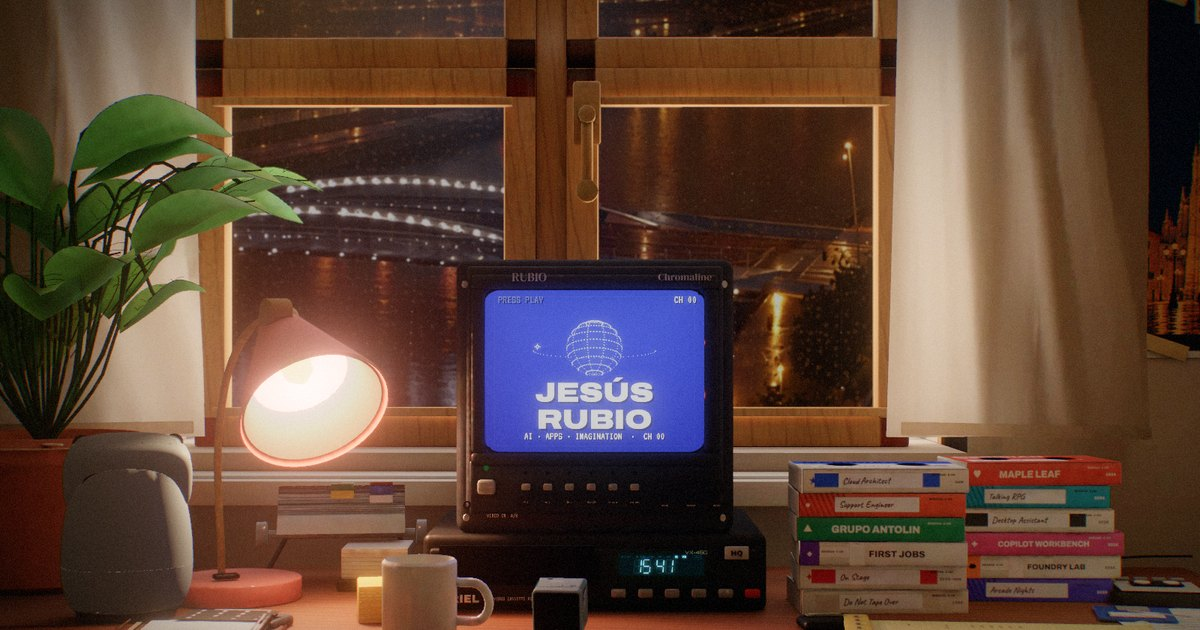
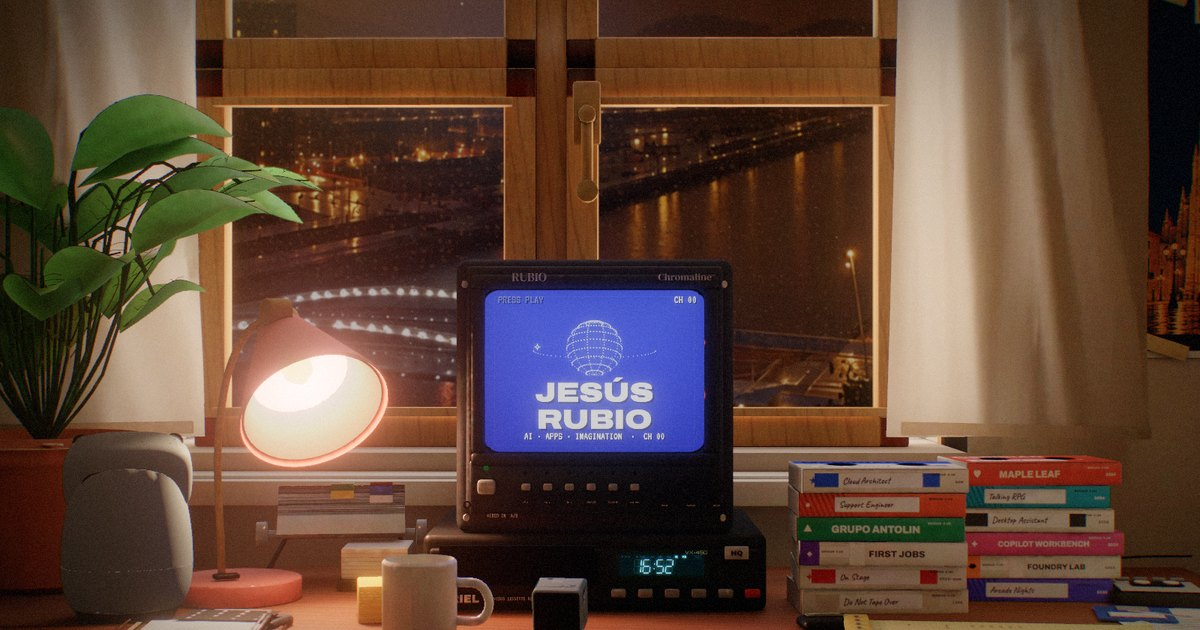
Room: window view shifted, not tilted

diff --git a/room/js/scene/window.js b/room/js/scene/window.js
@@ -35,6 +35,7 @@ uniform vec2 uAzRange;
 uniform vec2 uElRange;
 uniform vec2 uPanoOffset;
 uniform vec2 uViewRotate;
+uniform float uViewShift;
 uniform vec4 uCarPaths[4];
 uniform float uCarSpeeds[4];
 uniform int uCarCount;
@@ -75,7 +76,12 @@ vec2 panoUvFromDir(vec3 d) {
 }
 
 
+// From a room ray to the panorama. The view is SHIFTED, not tilted: like a shift lens (or a film set's backdrop), the
+// city is moved down behind the window so that the ría shows from the desk, while its verticals stay vertical and
+// parallel to the window frame (a tilt made them converge: two perspectives in one frame). uViewShift = tan(shift);
+// the shear is relative to the window plane (outside is -z). uViewRotate: yaw, and an optional tilt (0).
 vec3 rotateSceneDir(vec3 d) {
+  d = vec3(d.x, d.y + uViewShift * d.z, d.z);
   float yaw = radians(uViewRotate.x);
   float lift = radians(-uViewRotate.y);
   float cy = cos(yaw);
@@ -498,6 +504,7 @@ uniform vec2 uAzRange;
 uniform vec2 uElRange;
 uniform vec2 uPanoOffset;
 uniform vec2 uViewRotate;
+uniform float uViewShift;
 varying vec2 vUv;
 varying vec3 vWorldPos;
 vec2 panoUvFromDir(vec3 d) {
@@ -507,6 +514,7 @@ vec2 panoUvFromDir(vec3 d) {
   return vec2((ae.x - uAzRange.x) / (uAzRange.y - uAzRange.x), (ae.y - uElRange.x) / (uElRange.y - uElRange.x));
 }
 vec3 rotateSceneDir(vec3 d) {
+  d = vec3(d.x, d.y + uViewShift * d.z, d.z);
   float yaw = radians(uViewRotate.x);
   float lift = radians(-uViewRotate.y);
   float cy = cos(yaw);
@@ -680,6 +688,19 @@ function buildBoats(river) {
   });
 }
 
+// How far the city is shifted down behind the window (tan of the angle), from where the camera is. From the desk (far
+// from the glass) the full shift brings the ría into view; leaning on the glass (LOOK OUTSIDE) there is none, and the
+// view is the photo's own perspective. In between it eases, so flying to the window the city settles into place.
+const GLASS_Z = -0.82;           // the window glass (three.js z; blender/lib/layout.py ROOM win_frame_y)
+const SHIFT_NEAR = 0.7;          // metres from the glass: no shift
+const SHIFT_FAR = 1.6;           // metres from the glass: the full shift
+function viewShift(meta, camera) {
+  const deg = meta.view?.shift ?? 0;
+  if (!deg) return 0;
+  const d = Math.max(0, camera.position.z - GLASS_Z);
+  return Math.tan(THREE.MathUtils.degToRad(deg * smooth(SHIFT_NEAR, SHIFT_FAR, d)));
+}
+
 export async function createWindowView({
   renderer,
   basePath = DEFAULT_BASE,
@@ -721,6 +742,7 @@ export async function createWindowView({
     uElRange: { value: new THREE.Vector2(meta.elevation?.[0] ?? -50, meta.elevation?.[1] ?? 45) },
     uPanoOffset: { value: new THREE.Vector2(0, 0) },
     uViewRotate: { value: new THREE.Vector2(meta.view?.yaw ?? 0, meta.view?.lift ?? 0) },
+    uViewShift: { value: Math.tan(THREE.MathUtils.degToRad(meta.view?.shift ?? 0)) },
     uCarPaths: { value: cars.paths },
     uCarSpeeds: { value: cars.speeds },
     uCarCount: { value: cars.count },
@@ -862,7 +884,7 @@ export async function createWindowView({
         lightning = Math.max(0, lightning - Math.max(dt, 1 / 120) * 4.6);
       }
       uniforms.uLightning.value = lightning * (0.65 + 0.35 * Math.sin(time * 74.0));
-      if (camera) material.uniformsNeedUpdate = false;
+      if (camera) uniforms.uViewShift.value = viewShift(meta, camera);
     },
     // someone is looking out: make sure something happens soon (a boat, and now and then a flash)
     lookingOut(on, time) {
@@ -921,7 +943,8 @@ export async function createWindowViewFallback({ basePath = DEFAULT_BASE, render
       uAzRange: { value: new THREE.Vector2(meta.azimuth?.[0] ?? -55, meta.azimuth?.[1] ?? 35) },
       uElRange: { value: new THREE.Vector2(meta.elevation?.[0] ?? -50, meta.elevation?.[1] ?? 45) },
       uPanoOffset: { value: new THREE.Vector2(0, 0) },
-    uViewRotate: { value: new THREE.Vector2(meta.view?.yaw ?? 0, meta.view?.lift ?? 0) },
+      uViewRotate: { value: new THREE.Vector2(meta.view?.yaw ?? 0, meta.view?.lift ?? 0) },
+      uViewShift: { value: Math.tan(THREE.MathUtils.degToRad(meta.view?.shift ?? 0)) },
     },
     toneMapped: false,
     depthWrite: false,
@@ -929,7 +952,7 @@ export async function createWindowViewFallback({ basePath = DEFAULT_BASE, render
   return {
     material,
     meta,
-    update() {},
+    update(time, dt, camera) { if (camera) material.uniforms.uViewShift.value = viewShift(meta, camera); },
     setRain() {},
     flash() {},
     dispose() {

diff --git a/room/js/app/app.js b/room/js/app/app.js
@@ -13,9 +13,9 @@ const V = (p, t, fov) => ({ pos: new THREE.Vector3(...p), target: new THREE.Vect
 // the LOOK OUTSIDE view: camera, framing and how far you can turn your head (radians)
 export const LOOK_CAM = {
   pos: [0.26, 1.36, -0.37],
-  target: [0.169, 1.154, -1.667],
+  target: [0.205, 1.068, -1.635],     // nose near the glass, looking down 13° at the ría
   fov: 50,
-  look: { limitYaw: 0.55, limitUp: 0.3, limitDown: 0.45, spring: false, speed: 0.8 },
+  look: { limitYaw: 0.55, limitUp: 0.4, limitDown: 0.3, spring: false, speed: 0.8 },
 };
 
 export const CHANNELS = {
